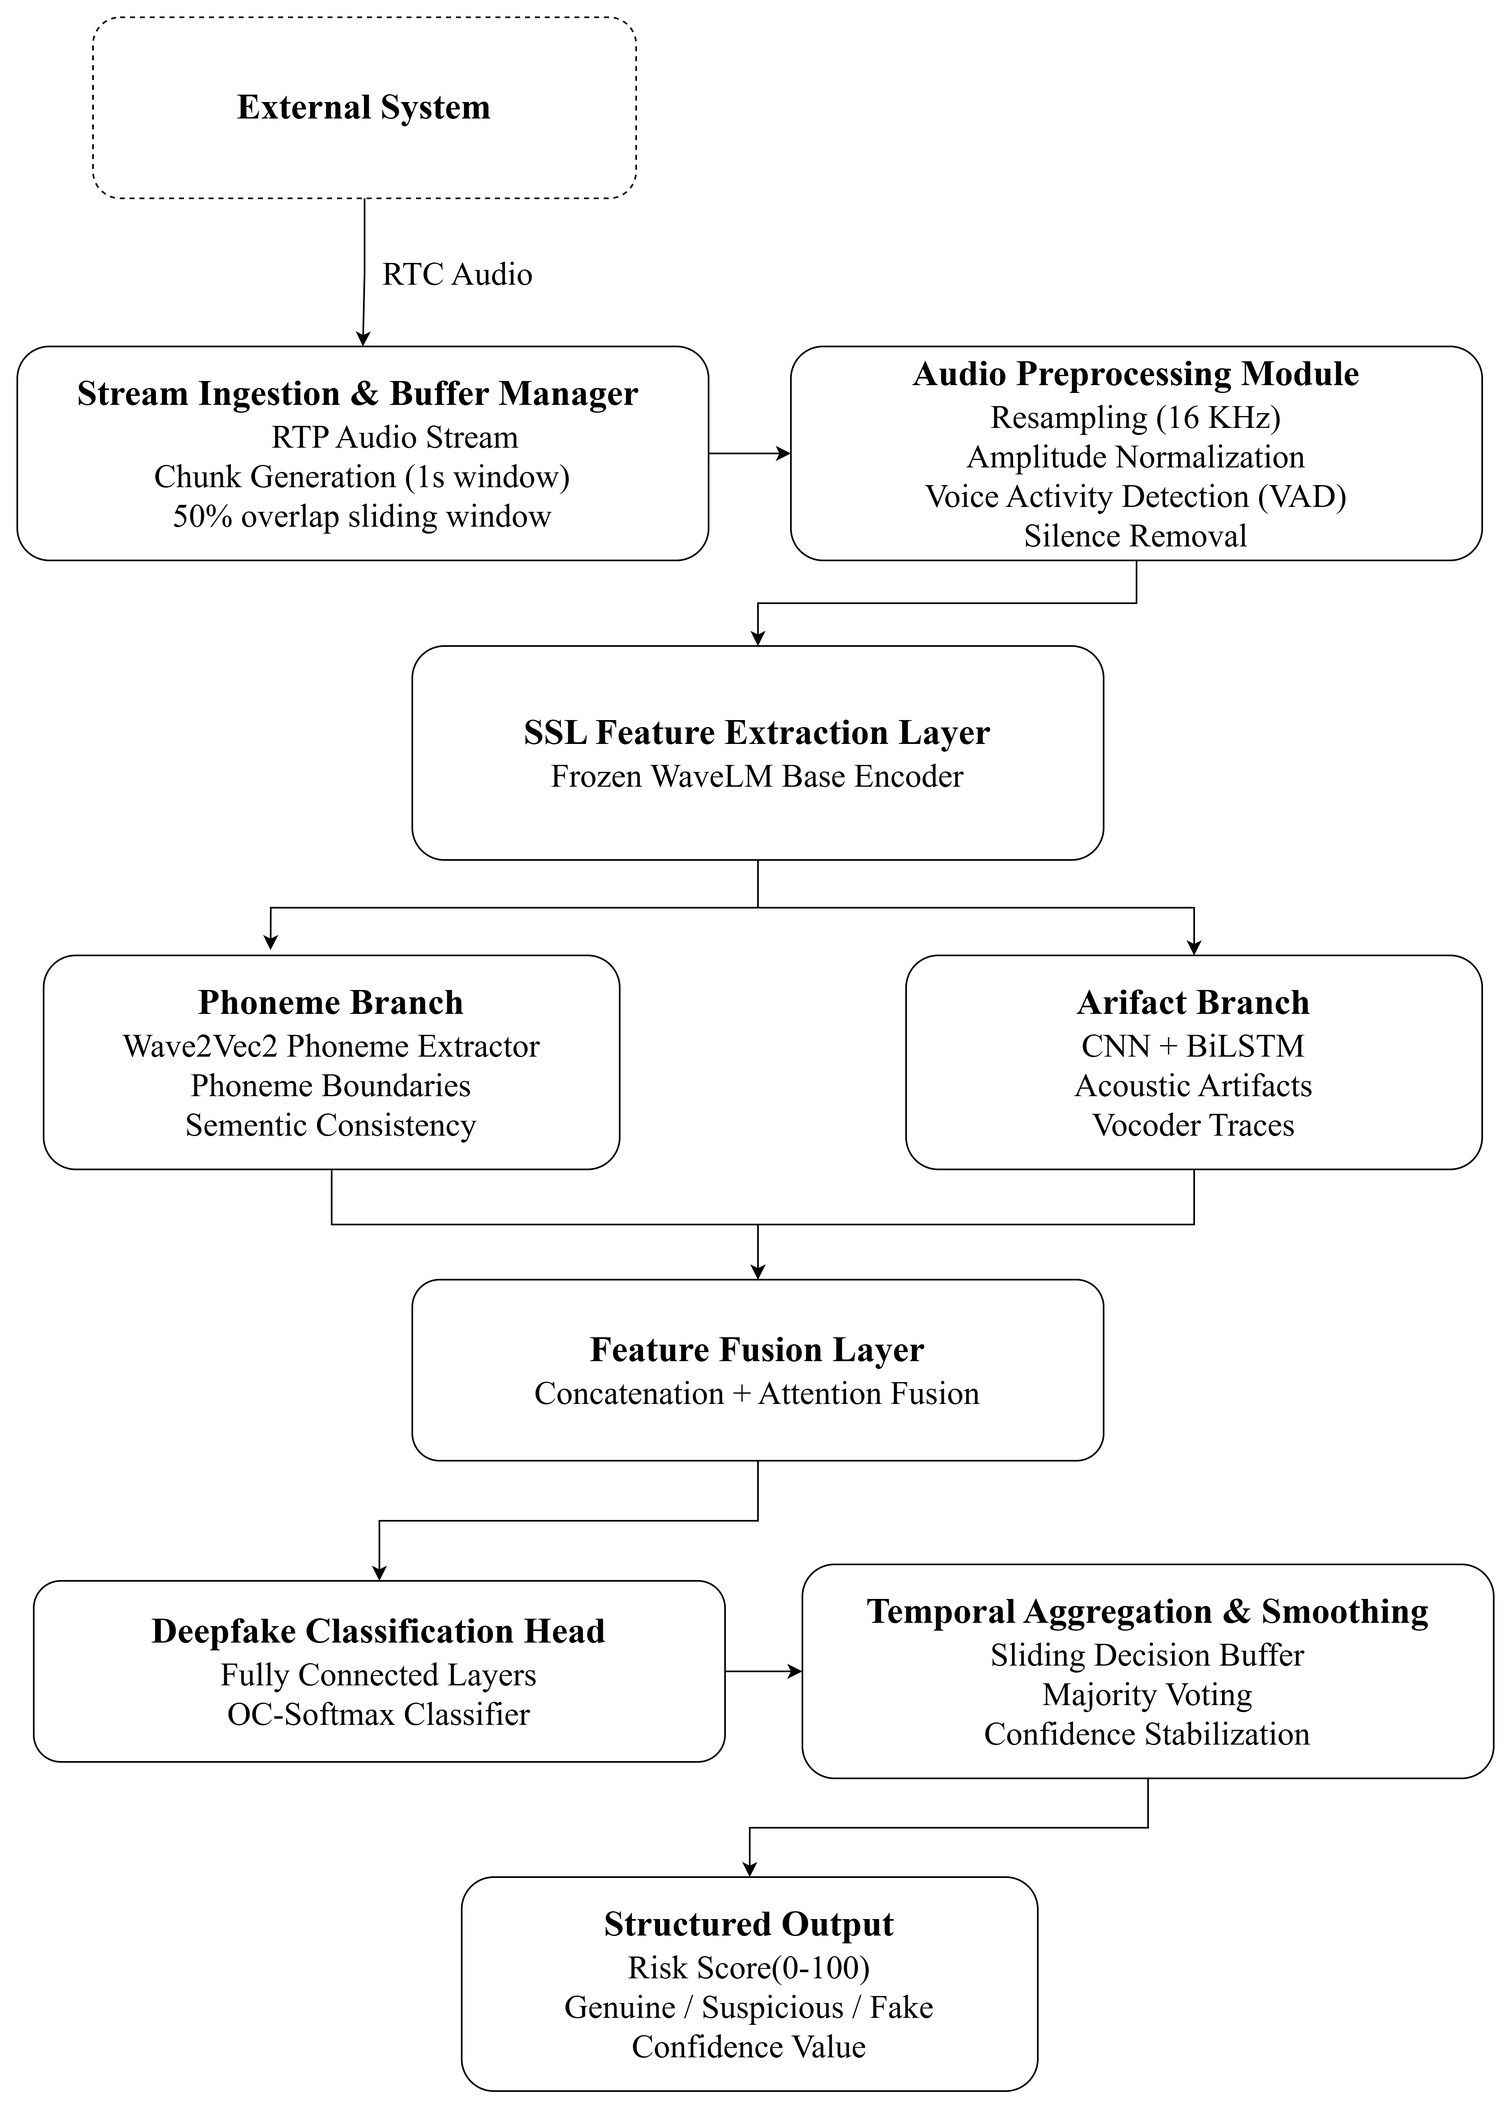
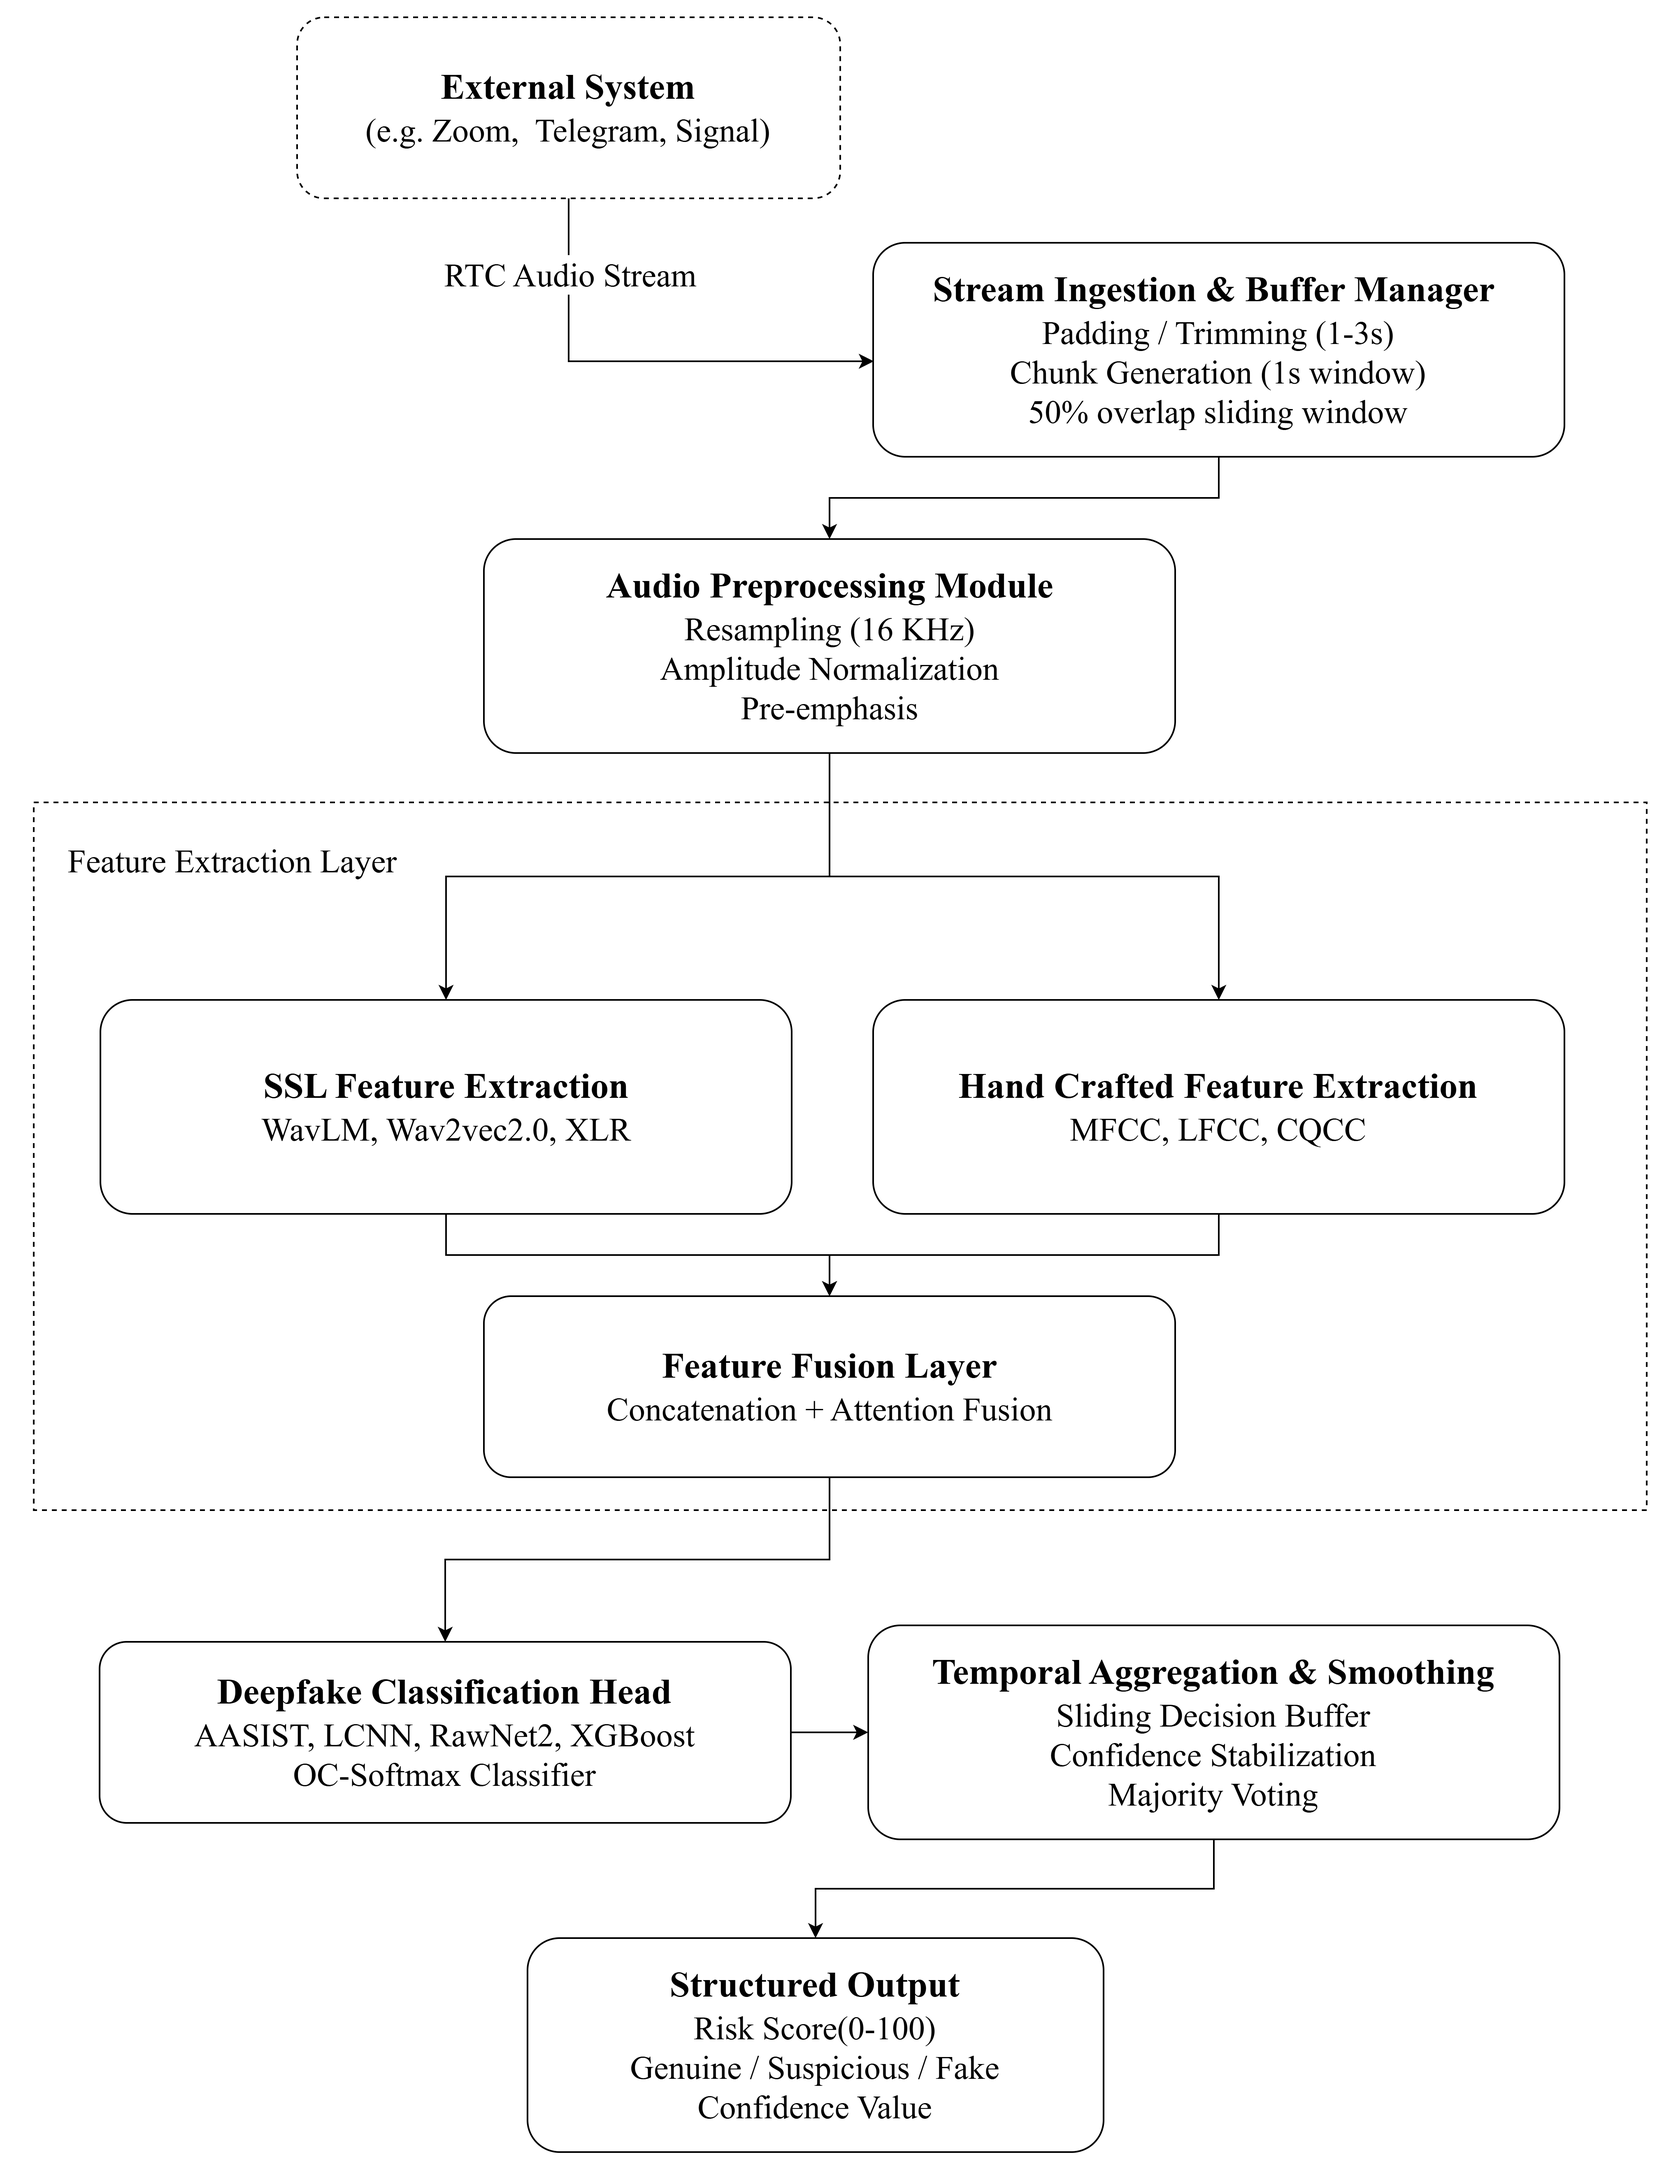
fix: minor issues

diff --git a/proposal-report/sections/methodology/proposed_module.tex b/proposal-report/sections/methodology/proposed_module.tex
@@ -1,13 +1,14 @@
 \subsection{Audio Deepfake Detection Service}
 
-The audio deepfake detection service is the core inference component of the proposed system. It receives reconstructed receiver-side audio and performs low-latency analysis to determine whether the speech segment is real or synthetic. In contrast to tightly coupled end-to-end RTC implementations, the proposed design isolates deepfake detection as an independent service that can be integrated into different RTC/VoIP platforms through a standard API layer.
-
 \begin{figure}[H]
     \centering
     \includegraphics[width=1\textwidth]{images/methodology/detection_service.png}
+    \vspace{0.25cm}
     \caption{Audio Deepfake Detection Service}
     \label{fig:detection_service}
 \end{figure}
+
+The audio deepfake detection service is the core inference component of the proposed system. It receives reconstructed receiver-side audio and performs low-latency analysis to determine whether the speech segment is real or synthetic. In contrast to tightly coupled end-to-end RTC implementations, the proposed design isolates deepfake detection as an independent service that can be integrated into different RTC/VoIP platforms through a standard API layer.
 
 This service operates on short streaming windows rather than complete utterances, which makes it suitable for real-time deployment. Its output is a probabilistic decision that can be consumed by the RTC application for alert generation, monitoring, or downstream security enforcement.
 

diff --git a/proposal-report/sections/methodology/integration.tex b/proposal-report/sections/methodology/integration.tex
@@ -2,8 +2,6 @@
 
 The integration strategy defines how the proposed audio deepfake detection service is connected to real-world real-time communication (RTC) environments without requiring modifications to the core RTC application. Since many RTC platforms, including WebRTC-based systems, VoIP services, and conferencing applications, operate as closed or partially restricted ecosystems, the proposed detector is designed as an external service-oriented component that interfaces with the RTC pipeline through standardized audio streaming access points.
 
-The primary objective of this integration layer is to enable continuous detection on reconstructed audio streams while preserving the real-time properties of the communication system. The detector is therefore deployed as a parallel inference component rather than as an in-band modification of the RTC stack.
-
 \vspace{0.5cm}
 \begin{figure}[H]
     \centering
@@ -11,6 +9,8 @@ The primary objective of this integration layer is to enable continuous detectio
     \caption{Integration of Detection Service with RTC systems}
     \label{fig:integration_strategy}
 \end{figure}
+
+The primary objective of this integration layer is to enable continuous detection on reconstructed audio streams while preserving the real-time properties of the communication system. The detector is therefore deployed as a parallel inference component rather than as an in-band modification of the RTC stack.
 
 \subsubsection{Deployment Modes}
 

diff --git a/proposal-report/sections/methodology/tran_recei_comm.tex b/proposal-report/sections/methodology/tran_recei_comm.tex
@@ -4,6 +4,7 @@ The signaling and call session management subsystem is responsible for establish
 
 This subsystem ensures that both participants are available, authenticated, and prepared before real-time voice transmission begins.
 
+\vspace{0.5cm}
 \begin{figure}[H]
     \centering
     \includegraphics[width=1\textwidth]{images/methodology/call_session.png}
